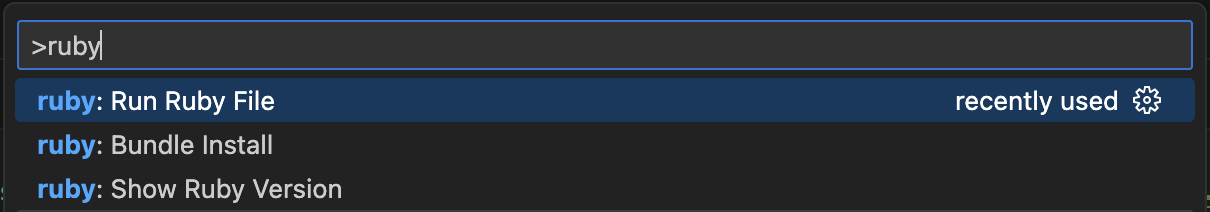
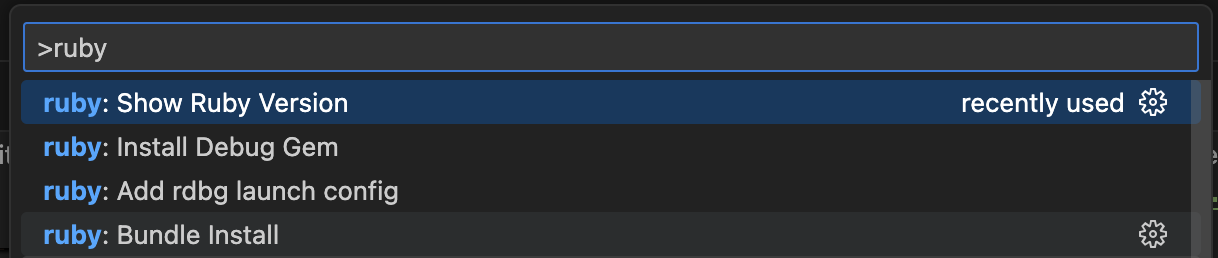
Packing v 0.2.0

diff --git a/README.md b/README.md
@@ -8,23 +8,9 @@ Currently implmented Ruby features (as tasks or commands):
 - Show Ruby Version
 - Bundle Install
 - Run Ruby File
+- Install Debug Gem
+- Add rdbg launch config
 
 Easily add new tasks and commands by modifying `rubyTasks.json`
 
-### Tasks
-
-![feature X](images/tasks.png)
-
-### Commands
-
 ![feature X](images/commands.png)
-
-## Known Issues
-
-None
-
-## Release Notes
-
-### 0.1.0
-
-Initial release
